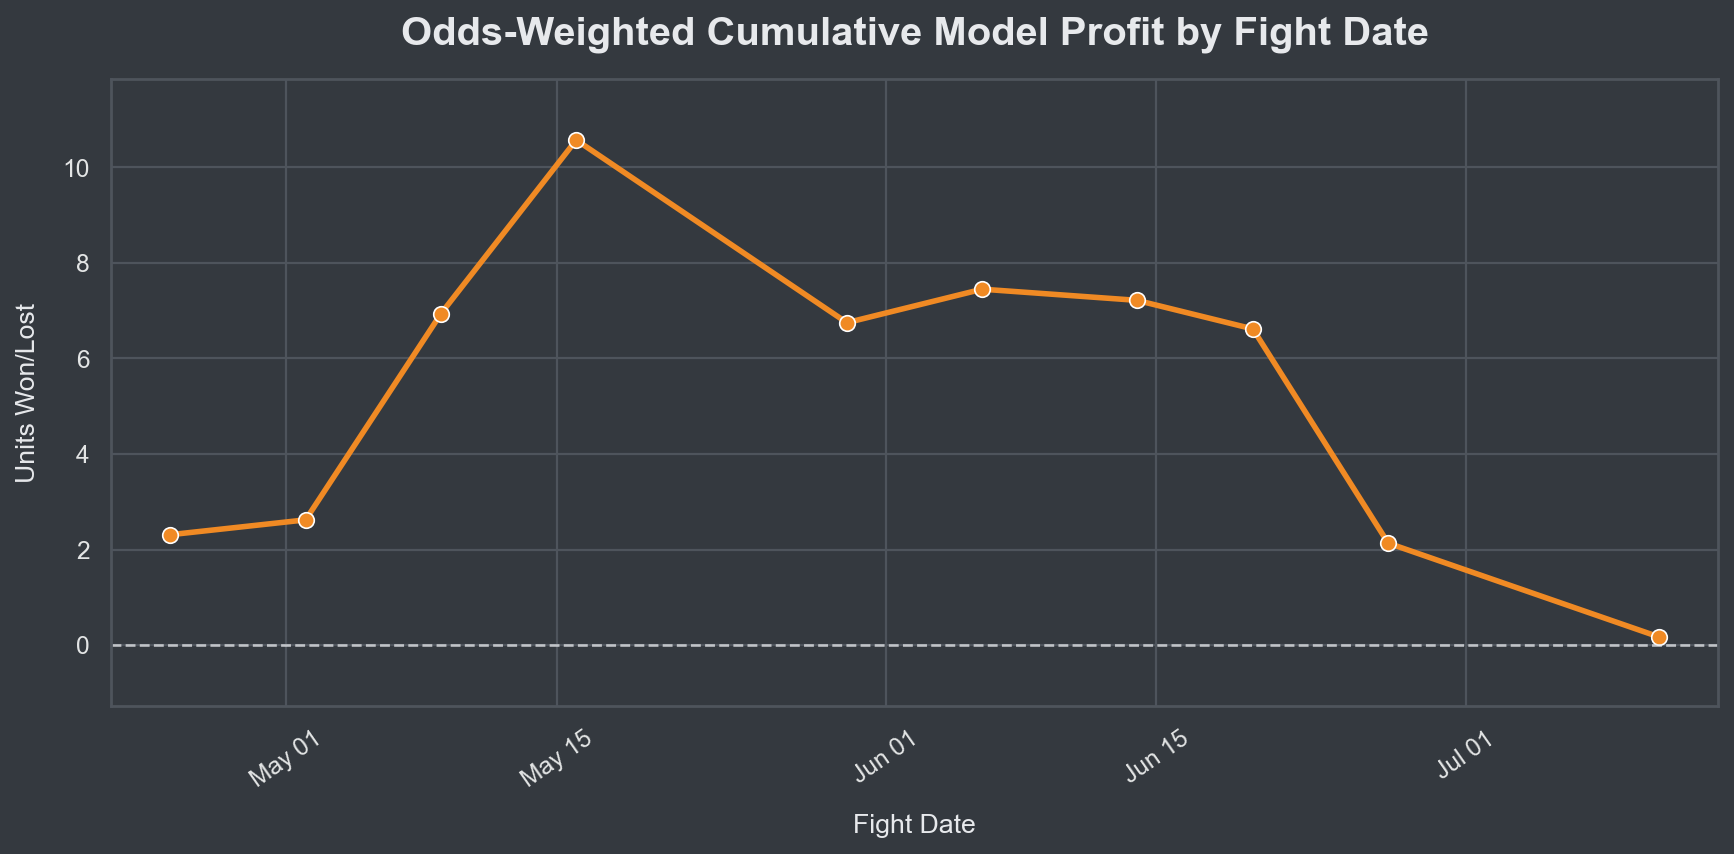
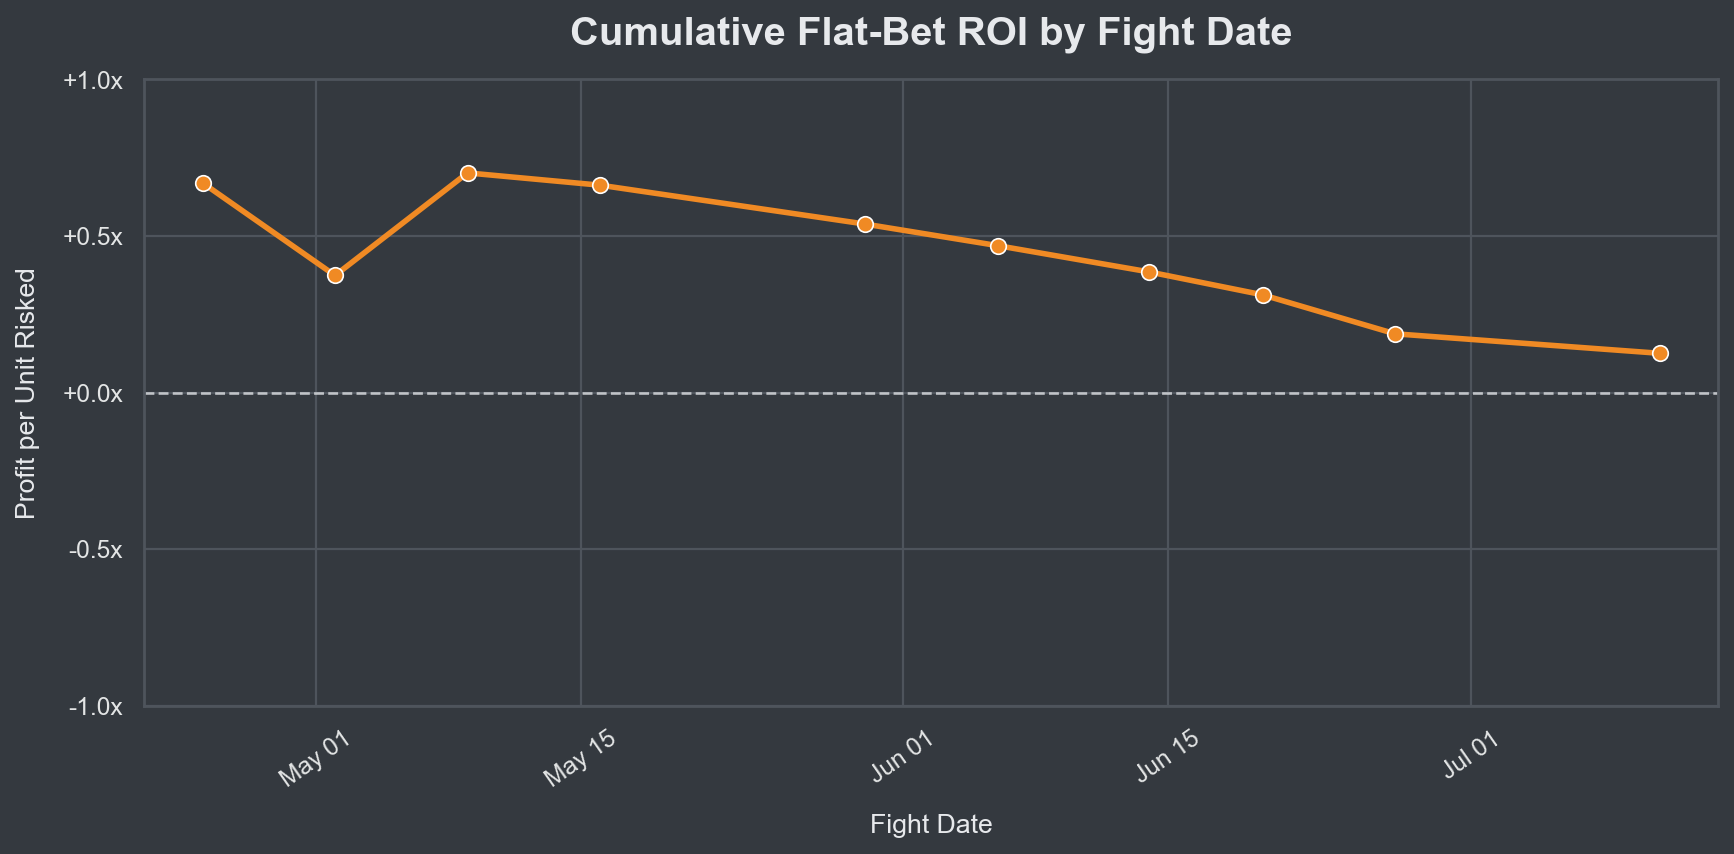
wip

diff --git a/frontend/src/components/stats.jsx b/frontend/src/components/stats.jsx
@@ -43,14 +43,14 @@ const Stats = () => {
           </div>
 
           <p className="stats-bio-text">
-            Odds-weighted cumulative model profit by fight card<br />
-            (This will look more readable as more fights happen)
+            Cumulative flat-bet ROI by fight card<br />
+            (1 unit risked per picked fight)
           </p>
         </div>
 
         <ChartPanel
           url={AVERAGE_RETURN_CHART_URL}
-          alt="Line chart showing odds-weighted cumulative model profit by fight date"
+          alt="Line chart showing cumulative flat-bet ROI by fight date"
           loadingText="Loading return chart..."
           errorText="Unable to load the return chart."
         />

diff --git a/backend/src/api/stats.py b/backend/src/api/stats.py
@@ -1,5 +1,6 @@
 from __future__ import annotations
 
+import math
 from io import BytesIO
 from typing import Any
 
@@ -19,26 +20,11 @@ def fetch_cumulative_profit_frame(conn) -> pd.DataFrame:
     query = """
         SELECT
             fight_date,
-            SUM(
-                CASE
-                    WHEN model_pick = red_fighter THEN
-                        CASE
-                            WHEN model_return > 1 THEN 1.0
-                            WHEN red_odds < 0 THEN -(ABS(red_odds)::float / 100.0)
-                            ELSE -(100.0 / NULLIF(red_odds, 0))
-                        END
-                    WHEN model_pick = blue_fighter THEN
-                        CASE
-                            WHEN model_return > 1 THEN 1.0
-                            WHEN blue_odds < 0 THEN -(ABS(blue_odds)::float / 100.0)
-                            ELSE -(100.0 / NULLIF(blue_odds, 0))
-                        END
-                    ELSE 0.0
-                END
-            )::float AS event_units,
+            SUM(model_return - 1.0)::float AS event_units,
             COUNT(*) AS bet_count
         FROM public.historical_predictions
         WHERE model_pick != 'Pass'
+          AND model_return IS NOT NULL
         GROUP BY fight_date
         ORDER BY fight_date
     """
@@ -59,6 +45,8 @@ def fetch_cumulative_profit_frame(conn) -> pd.DataFrame:
     frame["event_units"] = pd.to_numeric(frame["event_units"])
     frame["bet_count"] = pd.to_numeric(frame["bet_count"])
     frame["cumulative_units"] = frame["event_units"].cumsum()
+    frame["cumulative_bets"] = frame["bet_count"].cumsum()
+    frame["cumulative_roi"] = frame["cumulative_units"] / frame["cumulative_bets"]
     return frame
 
 
@@ -165,7 +153,7 @@ def render_average_return_chart(conn: Any) -> bytes:
     sns.lineplot(
         data=frame,
         x="fight_date",
-        y="cumulative_units",
+        y="cumulative_roi",
         marker="o",
         linewidth=2.5,
         markersize=7,
@@ -174,12 +162,17 @@ def render_average_return_chart(conn: Any) -> bytes:
     )
 
     ax.axhline(0.0, color="#e7e9ec", linestyle="--", linewidth=1.2, alpha=0.75)
-    ax.set_title("Odds-Weighted Cumulative Model Profit by Fight Date", fontsize=18, fontweight="bold", pad=16)
+    ax.set_title("Cumulative Flat-Bet ROI by Fight Date", fontsize=18, fontweight="bold", pad=16)
     ax.set_xlabel("Fight Date", labelpad=10)
-    ax.set_ylabel("Units Won/Lost", labelpad=10)
+    ax.set_ylabel("Profit per Unit Risked", labelpad=10)
     ax.xaxis.set_major_formatter(mdates.DateFormatter("%b %d"))
+    max_roi = frame["cumulative_roi"].max()
+    upper_limit = max(1.0, math.ceil((max_roi + 0.05) * 2) / 2)
+    ax.set_ylim(-1.0, upper_limit)
+    ax.yaxis.set_major_locator(mtick.MultipleLocator(0.5))
+    ax.yaxis.set_major_formatter(mtick.FuncFormatter(lambda value, _: f"{value:+.1f}x"))
     ax.tick_params(axis="x", rotation=35)
-    ax.margins(x=0.04, y=0.12)
+    ax.margins(x=0.04, y=0)
 
     for spine in ax.spines.values():
         spine.set_color("#4e545c")
